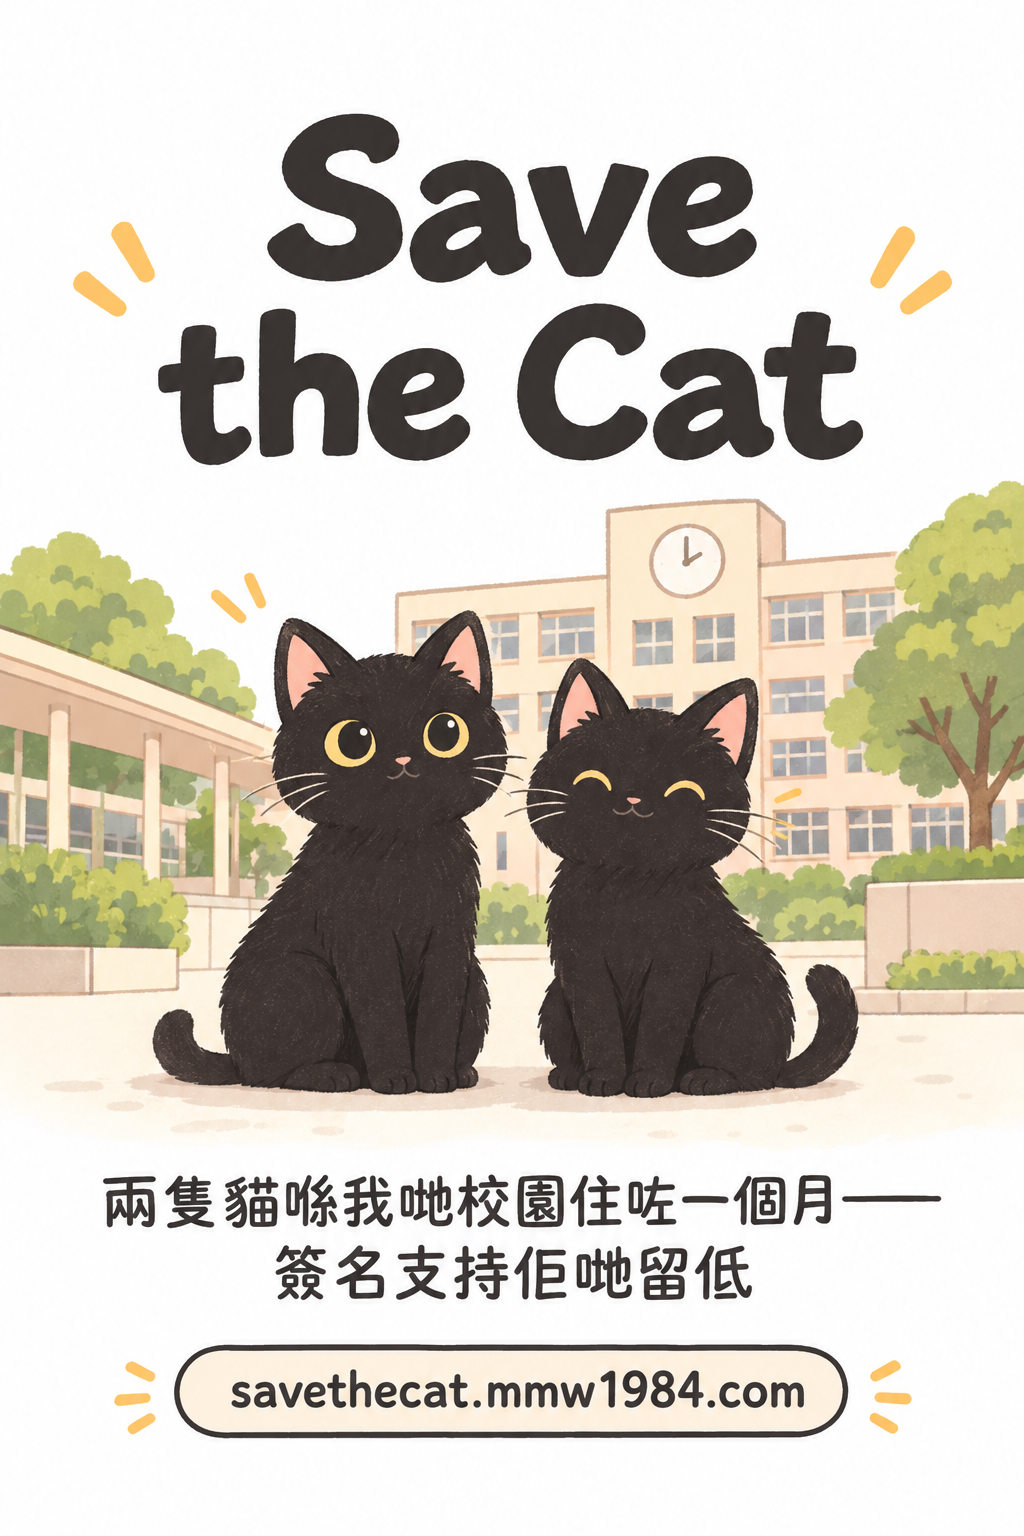
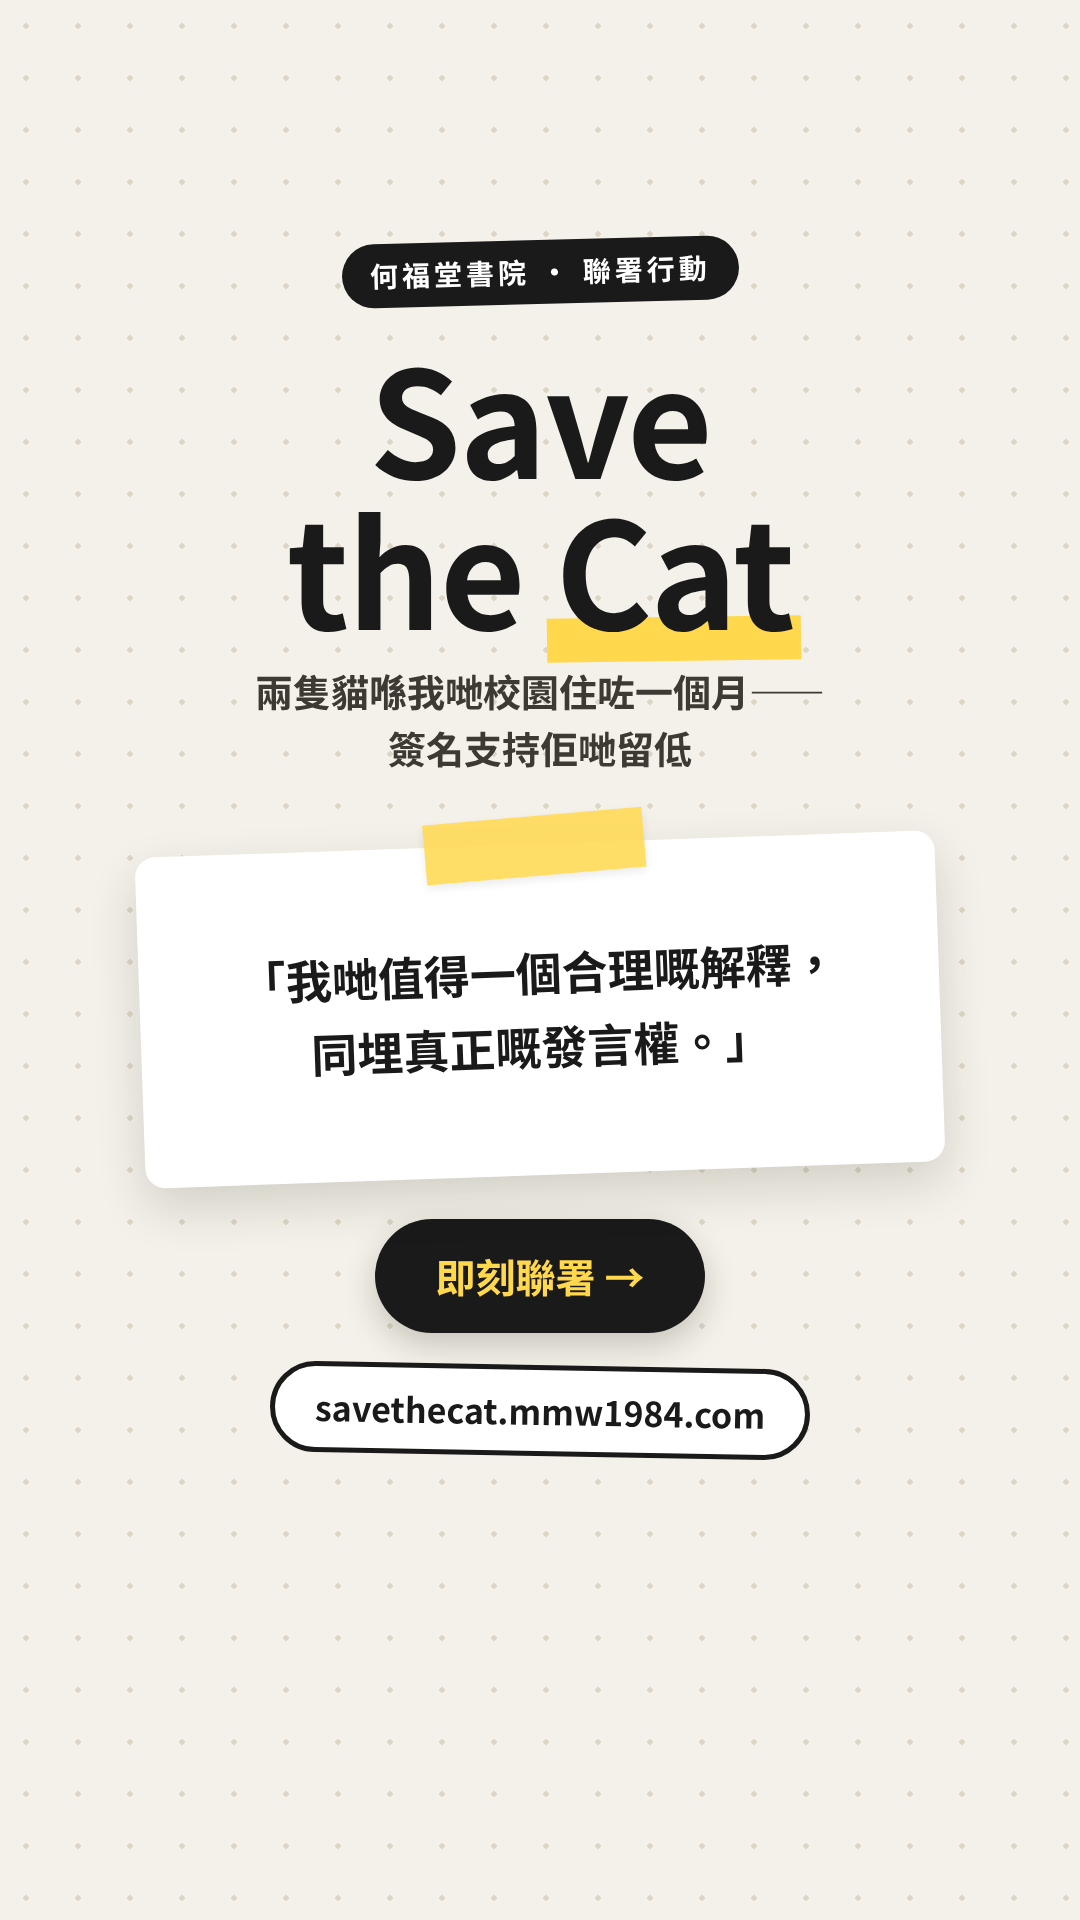
Replace story card with huashu-design style card, no cat photo (換咗張 story card)
Background:
User wanted the IG story card designed in the huashu-design skill's
style (sticker-notebook paradigm) and without the cat photo.

What changed:
- public/story-card.png: new 1080x1920 card rendered from HTML —
  dotted paper background, bold title with marker highlight, taped
  quote card, CTA pill, and the site link. Typography only, no cats.
- public/story-card-src.html: the HTML source used to render the card
  (kept so the card is reproducible).

How verified: rendered via headless Chrome at 540x960 x2 and inspected.

背景：改用 huashu-design 貼紙本風格，淨文字排版。story-card-src.html
係出圖嘅源碼，方便以後改。

驗證：headless Chrome 截圖 1080x1920 檢查過。

diff --git a/public/story-card-src.html b/public/story-card-src.html
@@ -1,0 +1,92 @@
+<!DOCTYPE html>
+<html lang="zh-Hant">
+<head>
+<meta charset="utf-8">
+<style>
+  * { margin: 0; padding: 0; box-sizing: border-box; }
+  html, body { width: 540px; height: 960px; overflow: hidden; }
+  body {
+    font-family: "PingFang TC", "PingFang SC", "Noto Sans TC", "Noto Sans CJK TC", "Microsoft JhengHei", sans-serif;
+    background: #f4f1ea;
+    background-image: radial-gradient(#ddd6c6 1.3px, transparent 1.3px);
+    background-size: 26px 26px;
+    display: flex;
+    align-items: center;
+    justify-content: center;
+  }
+  .card {
+    width: 480px; height: 900px;
+    padding-top: 90px;
+    position: relative;
+    display: flex; flex-direction: column; align-items: center;
+  }
+  .kicker {
+    background: #1a1a1a; color: #fff;
+    font-size: 14px; font-weight: 600; letter-spacing: 2px;
+    padding: 6px 14px; border-radius: 999px;
+    transform: rotate(-1.5deg);
+  }
+  h1 {
+    margin-top: 18px;
+    font-size: 74px; font-weight: 900; line-height: 1.02;
+    color: #1a1a1a; text-align: center; letter-spacing: -1px;
+  }
+  h1 .hl { position: relative; white-space: nowrap; }
+  h1 .hl::after {
+    content: ""; position: absolute; left: -4px; right: -4px; bottom: 6px;
+    height: 22px; background: #ffd84d; z-index: -1;
+    transform: rotate(-0.8deg);
+  }
+  .sub {
+    margin-top: 10px; font-size: 19px; font-weight: 600;
+    color: #3d3a33; text-align: center; line-height: 1.5;
+  }
+  .tape-block {
+    position: relative; margin-top: 34px;
+    width: 400px;
+    background: #fff; border-radius: 10px;
+    padding: 46px 30px;
+    box-shadow: 0 10px 24px rgba(40,35,20,.16);
+    transform: rotate(-2deg);
+  }
+  .quote {
+    font-size: 23px; font-weight: 800; line-height: 1.6;
+    color: #1a1a1a; text-align: center;
+  }
+  .tape {
+    position: absolute; top: -14px; left: 50%;
+    width: 110px; height: 30px;
+    transform: translateX(-50%) rotate(-3deg);
+    background: rgba(255, 216, 77, .85);
+    box-shadow: 0 2px 4px rgba(0,0,0,.08);
+  }
+  .cta {
+    margin-top: 22px;
+    background: #1a1a1a; color: #ffd84d;
+    font-size: 20px; font-weight: 800;
+    padding: 14px 30px; border-radius: 999px;
+    box-shadow: 0 6px 16px rgba(40,35,20,.22);
+  }
+  .link {
+    margin-top: 16px;
+    font-size: 17px; font-weight: 800; color: #1a1a1a;
+    background: #fff; border: 2.5px solid #1a1a1a;
+    padding: 8px 20px; border-radius: 999px;
+    transform: rotate(1deg);
+  }
+</style>
+</head>
+<body>
+  <div class="card">
+    <div class="kicker">何福堂書院 · 聯署行動</div>
+    <h1>Save<br>the <span class="hl">Cat</span></h1>
+    <div class="sub">兩隻貓喺我哋校園住咗一個月——<br>簽名支持佢哋留低</div>
+    <div class="tape-block">
+      <div class="tape"></div>
+      <div class="quote">「我哋值得一個合理嘅解釋，<br>同埋真正嘅發言權。」</div>
+    </div>
+    <div class="cta">即刻聯署 →</div>
+    <div class="link">savethecat.mmw1984.com</div>
+  </div>
+</body>
+</html>
